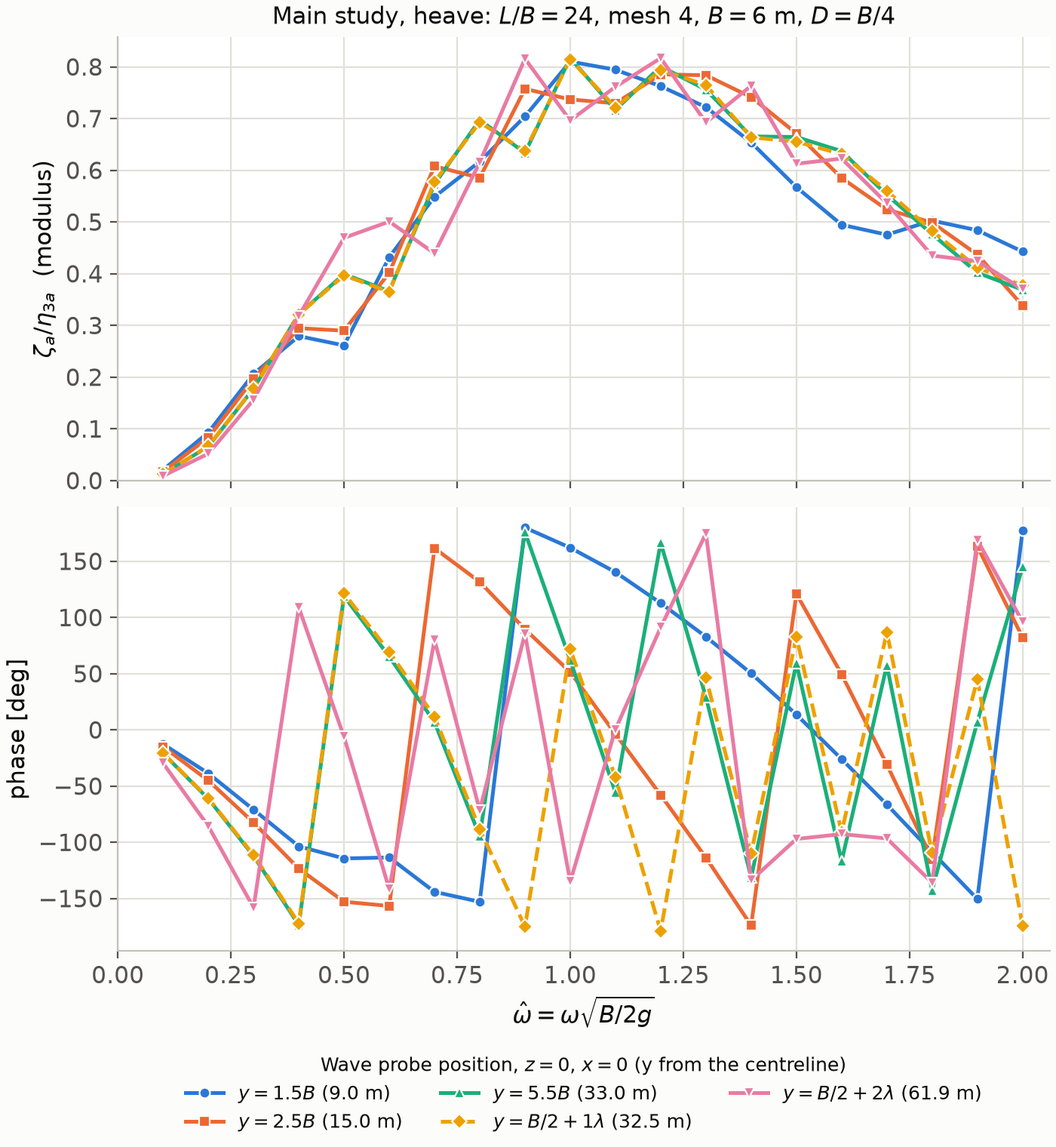
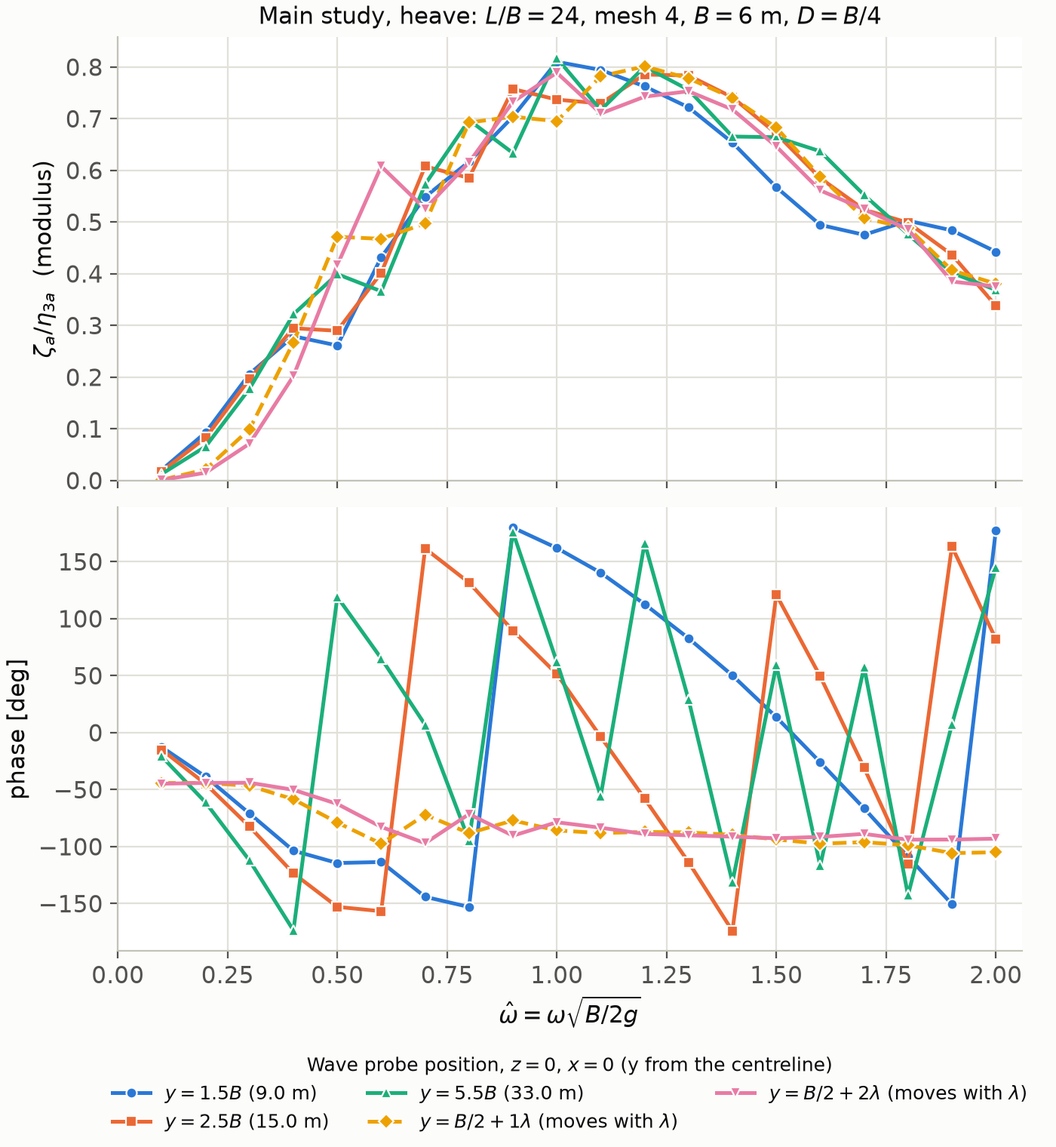
Update main study and animation with probes that follow the wavelength

diff --git a/assets/wavesim.js b/assets/wavesim.js
@@ -2,11 +2,12 @@
 /* Hovudstudien og bølgjeanimasjonen på Results-sida.
    Tala kjem frå main_study/plots/<rørsle>/main_study_<rørsle>_table.csv (same tal som er plotta).
    Radene er [omega_hat, lambda, lambda/dx, a, b, zeta (5 sondar), fase i grader (5 sondar)].
+   Sonde 1 til 3 står fast (y = 9, 15, 33 m). Sonde 4 og 5 følgjer bølgjelengda: y = B/2 + lambda og B/2 + 2 lambda (lambda frå kolonne 2).
    Konvensjon (WAMIT): rørsla er eta(t) = cos(wt), og bølgja i ein sonde er zeta_n(t) = |zeta_n| cos(wt + fase_n).
    Ei utgåande bølgje er cos(wt - k y + c), så fasen er fase_n = c - k y_n, med k = w^2/g på djupt vatn. */
 
-const WS_DATA = {"heave":[[0.1,1884.9556,1544.62,5.715353,0.088841,0.020668,0.017612,0.012773,0.012874,0.00916,-12.64,-14.924,-20.859,-20.687,-29.648],[0.2,471.2389,386.15,4.983019,0.513626,0.093058,0.082897,0.06589,0.066262,0.05205,-38.68,-44.995,-61.269,-60.797,-85.594],[0.3,209.4395,171.62,3.170812,0.876455,0.206325,0.196591,0.177892,0.178372,0.156388,-70.96,-82.431,-112.187,-111.314,-158.168],[0.4,117.8097,96.54,2.403484,0.89964,0.279332,0.294748,0.32185,0.321469,0.318313,-103.565,-123.434,-173.481,-172.02,108.874],[0.5,75.3982,61.78,1.97358,0.960845,0.261387,0.289856,0.399369,0.396708,0.469474,-114.355,-152.838,119.082,121.505,-6.167],[0.6,52.3599,42.91,1.723719,0.938068,0.432,0.401925,0.366199,0.365193,0.500859,-113.483,-156.64,65.178,69.435,-141.705],[0.7,38.4685,31.52,1.567684,0.874458,0.548952,0.608018,0.573342,0.578034,0.439492,-144.038,161.627,6.923,11.82,79.98],[0.8,29.4524,24.14,1.488714,0.78119,0.616875,0.585468,0.69742,0.692692,0.61552,-152.926,131.68,-94.618,-88.192,-71.43],[0.9,23.2711,19.07,1.466645,0.668966,0.704182,0.75759,0.633704,0.637499,0.815801,179.959,89.587,175.975,-175.062,85.462],[1.0,18.8496,15.45,1.484661,0.550758,0.810295,0.737081,0.817438,0.814644,0.696403,162.071,51.443,62.043,72.016,-134.98],[1.1,15.5781,12.77,1.527795,0.436666,0.794444,0.729666,0.716718,0.721323,0.761483,140.33,-3.63,-55.436,-42.265,0.412],[1.2,13.09,10.73,1.584975,0.334579,0.762658,0.785571,0.800853,0.793788,0.816967,112.788,-57.928,166.492,-178.792,91.177],[1.3,11.1536,9.14,1.647017,0.24856,0.722087,0.783814,0.756042,0.764921,0.692515,82.875,-113.607,29.147,46.62,174.699],[1.4,9.6171,7.88,1.707881,0.179742,0.653867,0.741564,0.665624,0.663885,0.763329,50.238,-173.92,-131.165,-109.875,-133.737],[1.5,8.3776,6.87,1.763954,0.127006,0.567472,0.671364,0.664381,0.655282,0.612697,13.64,121.103,59.323,82.825,-97.004],[1.6,7.3631,6.03,1.81374,0.088062,0.494697,0.585135,0.637122,0.631457,0.622722,-26.001,49.446,-116.781,-91.035,-92.688],[1.7,6.5223,5.34,1.856715,0.0602,0.475486,0.524188,0.552488,0.560318,0.536093,-66.417,-30.811,57.537,86.877,-96.554],[1.8,5.8178,4.77,1.893465,0.040767,0.502746,0.498964,0.476722,0.482774,0.435138,-108.73,-114.992,-142.514,-109.515,-135.942],[1.9,5.2215,4.28,1.924848,0.027543,0.484042,0.43697,0.402002,0.411939,0.424393,-150.424,163.341,7.211,45.002,168.867],[2.0,4.7124,3.86,1.951684,0.018698,0.442806,0.338362,0.368897,0.37711,0.370352,177.495,82.251,145.051,-174.266,96.154]],"sway":[[0.1,1884.9556,1544.62,0.674976,3e-06,0.001937,0.001146,0.000515,0.000524,0.000256,179.981,179.949,179.755,179.763,179.079],[0.2,471.2389,386.15,0.700065,0.000402,0.009036,0.005927,0.003466,0.003502,0.002375,178.99,177.547,171.104,171.335,156.694],[0.3,209.4395,171.62,0.74876,0.005366,0.026624,0.02028,0.015873,0.015933,0.013798,172.283,164.016,137.4,138.216,93.748],[0.4,117.8097,96.54,0.815727,0.026009,0.062211,0.052856,0.050979,0.050932,0.052135,156.588,136.299,80.393,81.991,-0.965],[0.5,75.3982,61.78,0.884948,0.082935,0.119338,0.104087,0.110493,0.109977,0.132103,138.483,104.816,9.944,12.625,-122.565],[0.6,52.3599,42.91,0.91213,0.195786,0.228907,0.20687,0.182067,0.182164,0.223194,117.027,74.266,-57.632,-53.502,93.564],[0.7,38.4685,31.52,0.850409,0.356709,0.359626,0.368135,0.373813,0.375627,0.285818,83.897,24.608,-135.461,-130.595,-56.081],[0.8,29.4524,24.14,0.702171,0.51647,0.516099,0.481529,0.552503,0.548269,0.520492,59.077,-17.136,114.142,120.666,138.199],[0.9,23.2711,19.07,0.5238,0.626739,0.644541,0.712044,0.614725,0.621137,0.800114,23.061,-71.915,18.693,27.576,-76.6],[1.0,18.8496,15.45,0.36714,0.678925,0.86118,0.831711,0.916907,0.909319,0.717641,-5.037,-115.068,-107.444,-97.552,57.66],[1.1,15.5781,12.77,0.248735,0.687405,0.951475,0.88194,0.884343,0.899358,1.000173,-31.007,-175.614,137.077,150.188,-168.408],[1.2,13.09,10.73,0.166548,0.670743,0.997385,1.121256,1.099726,1.077513,1.140441,-63.534,124.89,-12.676,2.248,-88.305],[1.3,11.1536,9.14,0.111816,0.640321,1.085443,1.304802,1.300556,1.316503,1.092064,-98.44,69.31,-146.662,-130.059,3.381],[1.4,9.6171,7.88,0.076325,0.603227,1.177337,1.389697,1.127635,1.150603,1.399528,-132.713,9.146,55.637,77.601,43.512],[1.5,8.3776,6.87,0.054368,0.563372,1.235978,1.457674,1.293372,1.252382,1.289662,-166.176,-57.203,-123.12,-98.657,90.111],[1.6,7.3631,6.03,0.041729,0.523771,1.305172,1.564378,1.581817,1.539959,1.452717,162.055,-129.473,60.717,86.15,84.366],[1.7,6.5223,5.34,0.035074,0.484226,1.517868,1.683935,1.704787,1.701727,1.650462,127.07,151.642,-122.906,-94.764,86.413],[1.8,5.8178,4.77,0.03315,0.446579,1.74466,1.727596,1.731309,1.761246,1.391501,80.99,66.051,39.646,71.564,47.361],[1.9,5.2215,4.28,0.034449,0.410359,1.614969,1.602933,1.754013,1.802654,1.744103,32.824,-21.174,-171.561,-135.488,-14.843],[2.0,4.7124,3.86,0.037874,0.376192,1.655135,1.569483,1.804328,1.857747,1.8506,-2.234,-102.758,-35.719,4.441,-84.896]]};
-const WS_Y = [9, 15, 33, 32.4524, 61.9049];
+const WS_DATA = {"heave":[[0.1,1884.9556,1544.62,5.715353,0.088841,0.020668,0.017612,0.012773,0.001477,0.001044,-12.64,-14.924,-20.859,-44.136,-44.758],[0.2,471.2389,386.15,4.983019,0.513626,0.093058,0.082897,0.06589,0.021468,0.015218,-38.68,-44.995,-61.269,-44.089,-44.06],[0.3,209.4395,171.62,3.170812,0.876455,0.206325,0.196591,0.177892,0.099504,0.071512,-70.96,-82.431,-112.187,-46.601,-43.908],[0.4,117.8097,96.54,2.403484,0.89964,0.279332,0.294748,0.32185,0.267471,0.202216,-103.565,-123.434,-173.481,-58.438,-50.13],[0.5,75.3982,61.78,1.97358,0.960845,0.261387,0.289856,0.399369,0.471703,0.416901,-114.355,-152.838,119.082,-78.836,-62.522],[0.6,52.3599,42.91,1.723719,0.938068,0.432,0.401925,0.366199,0.46768,0.607932,-113.483,-156.64,65.178,-97.481,-82.672],[0.7,38.4685,31.52,1.567684,0.874458,0.548952,0.608018,0.573342,0.497401,0.525695,-144.038,161.627,6.923,-71.959,-96.983],[0.8,29.4524,24.14,1.488714,0.78119,0.616875,0.585468,0.69742,0.692692,0.61552,-152.926,131.68,-94.618,-88.192,-71.43],[0.9,23.2711,19.07,1.466645,0.668966,0.704182,0.75759,0.633704,0.704061,0.732817,179.959,89.587,175.975,-77.019,-90.356],[1.0,18.8496,15.45,1.484661,0.550758,0.810295,0.737081,0.817438,0.695203,0.789149,162.071,51.443,62.043,-85.737,-78.578],[1.1,15.5781,12.77,1.527795,0.436666,0.794444,0.729666,0.716718,0.782369,0.710257,140.33,-3.63,-55.436,-88.075,-83.382],[1.2,13.09,10.73,1.584975,0.334579,0.762658,0.785571,0.800853,0.801364,0.742775,112.788,-57.928,166.492,-87.075,-88.862],[1.3,11.1536,9.14,1.647017,0.24856,0.722087,0.783814,0.756042,0.778233,0.75328,82.875,-113.607,29.147,-87.493,-90.063],[1.4,9.6171,7.88,1.707881,0.179742,0.653867,0.741564,0.665624,0.740474,0.718059,50.238,-173.92,-131.165,-89.675,-91.211],[1.5,8.3776,6.87,1.763954,0.127006,0.567472,0.671364,0.664381,0.682874,0.646378,13.64,121.103,59.323,-93.672,-92.652],[1.6,7.3631,6.03,1.81374,0.088062,0.494697,0.585135,0.637122,0.588123,0.56142,-26.001,49.446,-116.781,-97.369,-91.418],[1.7,6.5223,5.34,1.856715,0.0602,0.475486,0.524188,0.552488,0.507589,0.524898,-66.417,-30.811,57.537,-96.023,-88.783],[1.8,5.8178,4.77,1.893465,0.040767,0.502746,0.498964,0.476722,0.488874,0.486102,-108.73,-114.992,-142.514,-98.77,-93.865],[1.9,5.2215,4.28,1.924848,0.027543,0.484042,0.43697,0.402002,0.406765,0.385114,-150.424,163.341,7.211,-105.667,-93.763],[2.0,4.7124,3.86,1.951684,0.018698,0.442806,0.338362,0.368897,0.380918,0.37569,177.495,82.251,145.051,-104.92,-92.993]],"sway":[[0.1,1884.9556,1544.62,0.674976,3e-06,0.001937,0.001146,0.000515,1.3e-05,9e-06,179.981,179.949,179.755,-139.093,-137.327],[0.2,471.2389,386.15,0.700065,0.000402,0.009036,0.005927,0.003466,0.000816,0.000578,178.99,177.547,171.104,-142.118,-139.748],[0.3,209.4395,171.62,0.74876,0.005366,0.026624,0.02028,0.015873,0.009091,0.006578,172.283,164.016,137.4,-150.639,-145.832],[0.4,117.8097,96.54,0.815727,0.026009,0.062211,0.052856,0.050979,0.046758,0.036153,156.588,136.299,80.393,-168.33,-158.266],[0.5,75.3982,61.78,0.884948,0.082935,0.119338,0.104087,0.110493,0.136062,0.12528,138.483,104.816,9.944,163.932,-179.812],[0.6,52.3599,42.91,0.91213,0.195786,0.228907,0.20687,0.182067,0.210161,0.276177,117.027,74.266,-57.632,138.728,149.469],[0.7,38.4685,31.52,0.850409,0.356709,0.359626,0.368135,0.373813,0.337791,0.328196,83.897,24.608,-135.461,147.277,125.236],[0.8,29.4524,24.14,0.702171,0.51647,0.516099,0.481529,0.552503,0.548269,0.520492,59.077,-17.136,114.142,120.666,138.199],[0.9,23.2711,19.07,0.5238,0.626739,0.644541,0.712044,0.614725,0.704864,0.685536,23.061,-71.915,18.693,123.468,107.91],[1.0,18.8496,15.45,0.36714,0.678925,0.86118,0.831711,0.916907,0.740911,0.91788,-5.037,-115.068,-107.444,108.977,114.881],[1.1,15.5781,12.77,0.248735,0.687405,0.951475,0.88194,0.884343,0.957641,0.856847,-31.007,-175.614,137.077,98.215,108.947],[1.2,13.09,10.73,0.166548,0.670743,0.997385,1.121256,1.099726,1.156552,0.961886,-63.534,124.89,-12.676,96.147,95.599],[1.3,11.1536,9.14,0.111816,0.640321,1.085443,1.304802,1.300556,1.292818,1.127889,-98.44,69.31,-146.662,94.663,90.09],[1.4,9.6171,7.88,0.076325,0.603227,1.177337,1.389697,1.127635,1.388631,1.222841,-132.713,9.146,55.637,91.657,88.007],[1.5,8.3776,6.87,0.054368,0.563372,1.235978,1.457674,1.293372,1.408212,1.231614,-166.176,-57.203,-123.12,87.719,88.738],[1.6,7.3631,6.03,0.041729,0.523771,1.305172,1.564378,1.581817,1.313277,1.281445,162.055,-129.473,60.717,88.748,96.1],[1.7,6.5223,5.34,0.035074,0.484226,1.517868,1.683935,1.704787,1.446925,1.600381,127.07,151.642,-122.906,97.937,97.995],[1.8,5.8178,4.77,0.03315,0.446579,1.74466,1.727596,1.731309,1.74254,1.689327,80.99,66.051,39.646,91.328,87.221],[1.9,5.2215,4.28,0.034449,0.410359,1.614969,1.602933,1.754013,1.514018,1.499707,32.824,-21.174,-171.561,89.464,94.135],[2.0,4.7124,3.86,0.037874,0.376192,1.655135,1.569483,1.804328,1.851904,1.878369,-2.234,-102.758,-35.719,93.369,90.408]]};
+const WS_Y = [9, 15, 33];                                     // dei faste sondane; sonde 4 og 5 følgjer lambda, sjå wsYs()
 const WS_COL = ["#2a78d6", "#eb6834", "#1baf7a", "#eda100", "#e87ba4"];
 const WS_NAME = ["1.5B", "2.5B", "5.5B", "B/2+λ", "B/2+2λ"];
 const WS_B = 6, WS_D = 1.5, WS_G = 9.80665, WS_VIEW = 70;      // halvbreidde av visninga i meter
@@ -15,46 +16,46 @@ const WS_PERIOD = 6;                                           // sekund på skj
 SITE.add({
 no:{
  "ms.h":"Main study",
- "ms.p":"L/B = 24 og mesh 4, ω̂ = 0.1 til 2.0 i steg på 0.1. Same dimensjonslause storleikar som i sensitivitetsstudiane. Bølgjehøgd og fase er målt i dei fem sondane (z = 0, x = 0).",
+ "ms.p":"L/B = 24 og mesh 4, ω̂ = 0.1 til 2.0 i steg på 0.1. Same dimensjonslause storleikar som i sensitivitetsstudiane. Bølgjehøgd og fase er målt i fem sondar (z = 0, x = 0): tre faste (y = 1.5B, 2.5B og 5.5B) og to som følgjer bølgjelengda (y = B/2 + λ og B/2 + 2λ, rekna på nytt for kvar frekvens).",
  "ms.coef":"Added mass og demping",
  "ms.waves":"Bølgjehøgd og fase",
- "ms.warn":"Meshet er valt ved ω̂ = 0.8 (λ/Δx = 24) og er det same for alle frekvensar, så λ/Δx blir mindre ved høge frekvensar (3.9 ved ω̂ = 2). Dei høgaste frekvensane er derfor mindre pålitelege. Fasen er innpakka til ±180°, og dei fjerne sondane går gjennom fleire heile omdreiingar mellom to punkt.",
+ "ms.warn":"Meshet er valt ved ω̂ = 0.8 (λ/Δx = 24) og er det same for alle frekvensar, så λ/Δx blir mindre ved høge frekvensar (3.9 ved ω̂ = 2). Dei høgaste frekvensane er derfor mindre pålitelege. Fasen er innpakka til ±180°. For dei faste sondene går fasen gjennom fleire heile omdreiingar mellom to punkt, medan sondene som følgjer bølgjelengda har ein jamn fase.",
  "wv.h":"Animasjon: bølgjene frå boksen",
- "wv.p":"Boksen svingar og sender bølgjer ut til begge sider. Ei utgåande bølgje har fasen −k·y, med k = ω²/g. Dess lenger bort ein er, og dess høgare frekvens, dess raskare blir fasen skyvd bakover. Glidaren går i steg på 0.02. I målepunkta (0.1, 0.2, ...) er prikkane WAMIT-data, og mellom dei brukar eg teorien. Den blå linja er bølgjeteorien (djupt vatn).",
+ "wv.p":"Boksen svingar og sender bølgjer ut til begge sider. Ei utgåande bølgje har fasen −k·y, med k = ω²/g. Tre sondar står fast (1.5B, 2.5B og 5.5B). Dei to siste følgjer bølgjelengda (B/2 + λ og B/2 + 2λ), så dei flyttar seg når du endrar frekvensen, og ved låg frekvens ligg dei utanfor biletet. Glidaren går i steg på 0.02. I målepunkta (0.1, 0.2, ...) er prikkane WAMIT-data, og mellom dei brukar eg teorien. Den blå linja er bølgjeteorien (djupt vatn).",
  "wv.omega":"Frekvens ω̂",
  "wv.play":"Spel", "wv.pause":"Stopp",
  "wv.field":"Vassflata sett frå sida. Vertikal skala er sterkt forstørra (rørsle 1 m).",
- "wv.lag":"Forsinking bakom boksen: antal heile periodar (k·y/2π) kvar sonde ligg etter. Ved låg frekvens ligg alle saman med boksen (0). Dess høgare frekvens, dess lenger bak havnar dei, og dess lenger bort sonden står, dess raskare går det.",
+ "wv.lag":"Forsinking bakom boksen: antal heile periodar (k·y/2π) kvar sonde ligg etter. For dei faste sondene (blå, oransje og grøn) aukar forsinkinga med frekvensen, mest for den som står lengst unna. Dei to sondene som følgjer bølgjelengda ligg heile tida om lag 1 og 2 periodar bak (pluss ein liten del frå boksen sin kant som aukar med frekvensen).",
  "wv.lagax":"periodar bak boksen",
- "wv.ts":"Tidsserie: den svarte linja er svingninga til boksen (tid går mot høgre, nå er den loddrette streken). Kvar sonde ser same signal, men så langt bak i tid som forsinkinga k·y/2π. Ved låg frekvens ligg alle prikkane saman med boksen. Auk frekvensen med glidaren og sjå dei vandre bakover, mest for dei fjerne sondane. Forenkla: berre utbreiinga, utan fasen frå boksen sjølv.",
+ "wv.ts":"Tidsserie: den svarte linja er svingninga til boksen (tid går mot høgre, nå er den loddrette streken). Kvar sonde ser same signal, men så langt bak i tid som forsinkinga k·y/2π. Auk frekvensen med glidaren: dei faste sondene vandrar bakover, mest den fjerne, medan dei to som følgjer bølgjelengda held seg nær 1 og 2 periodar bak. Forenkla: berre utbreiinga, utan fasen frå boksen sjølv.",
  "wv.info":"λ = {lam} m, k = {k} rad/m, λ/Δx = {ldx}",
  "wv.interp":"Mellom målepunkta: teori (amplitude interpolert).",
  "wv.meas":"Målepunkt frå WAMIT.",
  "wv.lowmesh":"Meshet er grovt her (λ/Δx under 10), så dataa er mindre pålitelege.",
  "wv.th":["Sonde","y [m]","|ζ|/η","fase [°]","forsinking k·y [periodar]","teori fase [°] (festa til 1.5B)"],
- "wv.note":"Forsinking er k·y/2π: kor mange heile bølgjelengder sonden står frå kjelda. Den forsinkinga er forklaringa på at fasen, innpakka til ±180°, ser ut som ein sagtann når ω̂ aukar.",
+ "wv.note":"Forsinking er k·y/2π: kor mange heile bølgjelengder sonden står frå kjelda. Den forsinkinga er forklaringa på at fasen, innpakka til ±180°, ser ut som ein sagtann for dei faste sondene når ω̂ aukar. For sondene som følgjer bølgjelengda er k·y = k·B/2 + 2πn, så dei n heile periodane forsvinn i fasen, og fasen blir jamn.",
  "wv.y":"y [m]", "wv.t":"tid [periodar], nå = 0"
 },
 en:{
  "ms.h":"Main study",
- "ms.p":"L/B = 24 and mesh 4, ω̂ = 0.1 to 2.0 in steps of 0.1. The same non-dimensional quantities as in the sensitivity studies. Wave elevation and phase are measured in the five probes (z = 0, x = 0).",
+ "ms.p":"L/B = 24 and mesh 4, ω̂ = 0.1 to 2.0 in steps of 0.1. The same non-dimensional quantities as in the sensitivity studies. Wave elevation and phase are measured in five probes (z = 0, x = 0): three fixed (y = 1.5B, 2.5B and 5.5B) and two that follow the wavelength (y = B/2 + λ and B/2 + 2λ, placed again for every frequency).",
  "ms.coef":"Added mass and damping",
  "ms.waves":"Wave elevation and phase",
- "ms.warn":"The mesh was chosen at ω̂ = 0.8 (λ/Δx = 24) and is the same for all frequencies, so λ/Δx gets smaller at high frequencies (3.9 at ω̂ = 2). The highest frequencies are therefore less reliable. The phase is wrapped to ±180°, and the far probes pass through several full turns between two points.",
+ "ms.warn":"The mesh was chosen at ω̂ = 0.8 (λ/Δx = 24) and is the same for all frequencies, so λ/Δx gets smaller at high frequencies (3.9 at ω̂ = 2). The highest frequencies are therefore less reliable. The phase is wrapped to ±180°. For the fixed probes the phase passes through several full turns between two points, while the probes that follow the wavelength have a smooth phase.",
  "wv.h":"Animation: the waves from the box",
- "wv.p":"The box oscillates and sends waves out to both sides. An outgoing wave has the phase −k·y, with k = ω²/g. The further away you are, and the higher the frequency, the faster the phase is pushed backwards. The slider moves in steps of 0.02. At the data points (0.1, 0.2, ...) the dots are WAMIT data, and in between I use theory. The blue line is wave theory (deep water).",
+ "wv.p":"The box oscillates and sends waves out to both sides. An outgoing wave has the phase −k·y, with k = ω²/g. Three probes are fixed (1.5B, 2.5B and 5.5B). The last two follow the wavelength (B/2 + λ and B/2 + 2λ), so they move when you change the frequency, and at low frequency they are outside the picture. The slider moves in steps of 0.02. At the data points (0.1, 0.2, ...) the dots are WAMIT data, and in between I use theory. The blue line is wave theory (deep water).",
  "wv.omega":"Frequency ω̂",
  "wv.play":"Play", "wv.pause":"Pause",
  "wv.field":"The free surface seen from the side. The vertical scale is strongly exaggerated (motion 1 m).",
- "wv.lag":"Delay behind the box: the number of whole periods (k·y/2π) each probe lags. At low frequency they all sit with the box (0). The higher the frequency, the further back they end up, and the further away a probe is, the faster it goes.",
+ "wv.lag":"Delay behind the box: the number of whole periods (k·y/2π) each probe lags. For the fixed probes (blue, orange and green) the delay grows with frequency, most for the one furthest away. The two probes that follow the wavelength stay at about 1 and 2 periods behind (plus a small part from the edge of the box that grows with frequency).",
  "wv.lagax":"periods behind the box",
- "wv.ts":"Time series: the black line is the oscillation of the box (time runs to the right, now is the vertical line). Every probe sees the same signal, but as far back in time as the delay k·y/2π. At low frequency all dots sit with the box. Increase the frequency with the slider and watch them move backwards, most for the far probes. Simplified: propagation only, without the phase from the box itself.",
+ "wv.ts":"Time series: the black line is the oscillation of the box (time runs to the right, now is the vertical line). Every probe sees the same signal, but as far back in time as the delay k·y/2π. Increase the frequency with the slider: the fixed probes move backwards, most for the far one, while the two that follow the wavelength stay near 1 and 2 periods behind. Simplified: propagation only, without the phase from the box itself.",
  "wv.info":"λ = {lam} m, k = {k} rad/m, λ/Δx = {ldx}",
  "wv.interp":"Between data points: theory (amplitude interpolated).",
  "wv.meas":"WAMIT data point.",
  "wv.lowmesh":"The mesh is coarse here (λ/Δx below 10), so the data are less reliable.",
  "wv.th":["Probe","y [m]","|ζ|/η","phase [°]","delay k·y [periods]","theory phase [°] (fitted to 1.5B)"],
- "wv.note":"The delay is k·y/2π: how many whole wavelengths the probe is from the source. That delay is why the phase, wrapped to ±180°, looks like a saw tooth as ω̂ increases.",
+ "wv.note":"The delay is k·y/2π: how many whole wavelengths the probe is from the source. That delay is why the phase, wrapped to ±180°, looks like a saw tooth for the fixed probes as ω̂ increases. For the probes that follow the wavelength, k·y = k·B/2 + 2πn, so the n whole periods disappear from the phase and it stays smooth.",
  "wv.y":"y [m]", "wv.t":"time [periods], now = 0"
 }
 });
@@ -62,6 +63,7 @@ en:{
 const WSIM = { dof: "heave", oh: 0.8, playing: true, theta: 0, last: 0, cv: null, ct: null };
 
 // ---------- hjelp ----------
+function wsYs(r){ return [WS_Y[0], WS_Y[1], WS_Y[2], WS_B / 2 + r[1], WS_B / 2 + 2 * r[1]]; }   // sondeposisjonar (m) ved denne frekvensen
 // Rad for valfri omega_hat: nøyaktig målt rad i målepunkta (steg 0.1), elles teori mellom punkta
 // (amplitude lineært, fasekonstanten c = fase_1 + k*y_1 interpolert på einingssirkelen, fase_n = c - k*y_n).
 function wsRowAt(oh){
@@ -73,7 +75,7 @@ function wsRowAt(oh){
   const ca = cc(A), cb = cc(B2), cx = (1 - t) * Math.cos(ca) + t * Math.cos(cb), cy = (1 - t) * Math.sin(ca) + t * Math.sin(cb), c = Math.atan2(cy, cx);
   const lam = 2 * Math.PI * WS_G / (om * om), dx = A[1] / A[2];
   const amp = A.slice(5, 10).map((v, n) => (1 - t) * v + t * B2[5 + n]);
-  const ph = WS_Y.map(y => wsWrap((c - k * y) * 180 / Math.PI));
+  const ph = [WS_Y[0], WS_Y[1], WS_Y[2], WS_B / 2 + lam, WS_B / 2 + 2 * lam].map(y => wsWrap((c - k * y) * 180 / Math.PI));
   return [oh, lam, lam / dx, 0, 0].concat(amp, ph, [true]);
 }
 function wsRow(){ return wsRowAt(WSIM.oh); }
@@ -82,7 +84,7 @@ function wsPh(r){ return r.slice(10, 15); }
 function wsWrap(d){ d = ((d + 180) % 360 + 360) % 360 - 180; return d; }
 function wsK(r){ const om = r[0] / Math.sqrt(WS_B / (2 * WS_G)); return om * om / WS_G; }
 function wsAmpAt(r, y){      // |zeta| mellom sondane, rett linje i y
-  const pts = WS_Y.map((v, i) => [v, wsAmp(r)[i]]).sort((a, b) => a[0] - b[0]);
+  const pts = wsYs(r).map((v, i) => [v, wsAmp(r)[i]]).sort((a, b) => a[0] - b[0]);
   if (y <= pts[0][0]) return pts[0][1];
   for (let i = 1; i < pts.length; i++) if (y <= pts[i][0]) { const [y0, a0] = pts[i - 1], [y1, a1] = pts[i]; return a0 + (a1 - a0) * (y - y0) / ((y1 - y0) || 1); }
   return pts[pts.length - 1][1];
@@ -99,7 +101,7 @@ function wsRange(r){ const a = Math.max(...wsAmp(r)); return Math.max(1.6, 1.3 *
 
 // ---------- teikning: vassflata ----------
 function wsDrawField(){
-  const { x, W, H } = wsSetup(WSIM.cv, 300), r = wsRow(), k = wsK(r), ph = wsPh(r), am = wsAmp(r);
+  const { x, W, H } = wsSetup(WSIM.cv, 300), r = wsRow(), k = wsK(r), ph = wsPh(r), am = wsAmp(r), ys = wsYs(r);
   const sw = WSIM.dof === "sway", th = WSIM.theta;
   const zr = wsRange(r), zlo = -2.2, padT = 14, padB = 26, ppm = (H - padT - padB) / (zr - zlo);
   const X = y => W / 2 + y / WS_VIEW * (W / 2 - 14), Z = z => padT + (zr - z) * ppm;
@@ -111,7 +113,7 @@ function wsDrawField(){
   x.textAlign = "left"; x.fillText("z [m]", 4, 12);
   for (let z = Math.ceil(zlo); z <= Math.floor(zr); z++){ x.beginPath(); x.moveTo(X(-WS_VIEW), Z(z)); x.lineTo(X(WS_VIEW), Z(z)); x.strokeStyle = z === 0 ? "#c3c2b7" : "#eeeee8"; x.stroke(); if (z !== 0){ x.fillStyle = "#8a8980"; x.fillText(String(z), 4, Z(z) - 2); } }
   // bølgje (teori), fase festa til sonde 1: c = fase_1 + k*y_1
-  const c0 = ph[0] * Math.PI / 180 + k * WS_Y[0];
+  const c0 = ph[0] * Math.PI / 180 + k * ys[0];
   const zeta = y => { const ay = Math.abs(y), s = (sw && y < 0) ? -1 : 1; return s * wsAmpAt(r, ay) * Math.cos(th - k * ay + c0); };
   x.beginPath(); let first = true;
   const pts = [];
@@ -130,12 +132,13 @@ function wsDrawField(){
   x.fillRect(x0, zt, x1 - x0, zb - zt); x.strokeRect(x0, zt, x1 - x0, zb - zt);
   // sondar med målt verdi
   for (let n = 0; n < 5; n++){
+    if (ys[n] > WS_VIEW) continue;                         // utanfor biletet (λ-sondane ved låg frekvens)
     const val = am[n] * Math.cos(th + ph[n] * Math.PI / 180);
-    x.setLineDash([2, 3]); x.strokeStyle = WS_COL[n]; x.lineWidth = 1; x.beginPath(); x.moveTo(X(WS_Y[n]), padT); x.lineTo(X(WS_Y[n]), H - padB); x.stroke(); x.setLineDash([]);
-    x.beginPath(); x.arc(X(WS_Y[n]), Z(val), 6, 0, 6.283); x.fillStyle = WS_COL[n]; x.fill(); x.lineWidth = 2; x.strokeStyle = "#fff"; x.stroke();
+    x.setLineDash([2, 3]); x.strokeStyle = WS_COL[n]; x.lineWidth = 1; x.beginPath(); x.moveTo(X(ys[n]), padT); x.lineTo(X(ys[n]), H - padB); x.stroke(); x.setLineDash([]);
+    x.beginPath(); x.arc(X(ys[n]), Z(val), 6, 0, 6.283); x.fillStyle = WS_COL[n]; x.fill(); x.lineWidth = 2; x.strokeStyle = "#fff"; x.stroke();
   }
   x.font = "bold 11px system-ui,sans-serif"; x.textAlign = "center";
-  [0, 1, 2, 4].forEach(n => { x.fillStyle = WS_COL[n]; x.fillText(WS_NAME[n], X(WS_Y[n]), padT + 10); });
+  [0, 1, 2, 3, 4].forEach(n => { if (ys[n] > WS_VIEW) return; x.fillStyle = WS_COL[n]; x.fillText(WS_NAME[n], X(ys[n]), padT + 10 + (n === 3 ? 12 : 0)); });
 }
 
 // ---------- teikning: tidsserie ----------
@@ -143,7 +146,7 @@ function wsDrawField(){
 // Kvar sonde ser same signal, men forsinka med k*y/2pi periodar (ikkje innpakka). Prikken til sonden
 // ligg derfor på same kurve, så langt bak i tid (t = -forsinking). Låg frekvens: alle prikkane ved t = 0.
 function wsDrawTs(){
-  const { x, W, H } = wsSetup(WSIM.ct, 210), r = wsRow(), k = wsK(r), th = WSIM.theta;
+  const { x, W, H } = wsSetup(WSIM.ct, 210), r = wsRow(), k = wsK(r), th = WSIM.theta, ys = wsYs(r);
   const MAXP = 14, padL = 40, padR = 12, padT = 12, padB = 26, T0 = -MAXP - 0.3, T1 = 0.3;
   const X = t => padL + (t - T0) / (T1 - T0) * (W - padL - padR), Z = z => padT + (1.15 - z) / 2.3 * (H - padT - padB);
   x.fillStyle = "#fff"; x.fillRect(0, 0, W, H);
@@ -161,7 +164,7 @@ function wsDrawTs(){
   // toppen av boksen sin kurve nærast "no" (tb), og kvar sonde har same kurve forskyvd bakover med forsinkinga
   const tb = -(((th / (2 * Math.PI)) % 1) + 1) % 1;
   for (let n = 0; n < 5; n++){
-    const lag = Math.min(k * WS_Y[n] / (2 * Math.PI), MAXP), tp = tb - lag, te = Math.min(tp + 2.5, T1);
+    const lag = Math.min(k * ys[n] / (2 * Math.PI), MAXP), tp = tb - lag, te = Math.min(tp + 2.5, T1);
     x.beginPath(); const M = 200;
     for (let i = 0; i <= M; i++){ const t = tp + (te - tp) * i / M, v = Math.cos(2 * Math.PI * (t - tp)); i ? x.lineTo(X(t), Z(v)) : x.moveTo(X(t), Z(v)); }
     x.strokeStyle = WS_COL[n]; x.lineWidth = 1.6; x.globalAlpha = 0.85; x.stroke(); x.globalAlpha = 1;
@@ -175,14 +178,14 @@ function wsDrawTs(){
 // Kvar sonde får ei eiga rad. Prikken står på forsinkinga k*y/2pi i heile periodar (ikkje innpakka),
 // så han startar ved 0 (i fase med boksen) og vandrar mot høgre når frekvensen aukar.
 function wsDrawLag(){
-  const { x, W, H } = wsSetup(WSIM.cl, 170), r = wsRow(), k = wsK(r), MAXP = 14, padL = 78, padR = 14, padT = 12, padB = 24;
+  const { x, W, H } = wsSetup(WSIM.cl, 170), r = wsRow(), k = wsK(r), ys = wsYs(r), MAXP = 14, padL = 78, padR = 14, padT = 12, padB = 24;
   const X = v => padL + v / MAXP * (W - padL - padR), rowH = (H - padT - padB) / 5;
   x.fillStyle = "#fff"; x.fillRect(0, 0, W, H);
   x.font = "11px system-ui,sans-serif"; x.textAlign = "center";
   for (let v = 0; v <= MAXP; v++){ x.strokeStyle = v === 0 ? "#111" : "#e1e0d9"; x.lineWidth = v === 0 ? 1.6 : 1; x.beginPath(); x.moveTo(X(v), padT); x.lineTo(X(v), H - padB); x.stroke(); x.fillStyle = "#52514e"; x.fillText(String(v), X(v), H - 9); }
   x.textAlign = "right"; x.fillStyle = "#52514e"; x.fillText(SITE.t("wv.lagax"), W - 4, 10);
   for (let n = 0; n < 5; n++){
-    const yy = padT + rowH * (n + 0.5), lag = k * WS_Y[n] / (2 * Math.PI);
+    const yy = padT + rowH * (n + 0.5), lag = k * ys[n] / (2 * Math.PI);
     x.fillStyle = WS_COL[n]; x.textAlign = "right"; x.font = "bold 11px system-ui,sans-serif"; x.fillText(WS_NAME[n], padL - 8, yy + 4);
     x.strokeStyle = WS_COL[n]; x.globalAlpha = 0.35; x.lineWidth = 6; x.lineCap = "round"; x.beginPath(); x.moveTo(X(0), yy); x.lineTo(X(Math.min(lag, MAXP)), yy); x.stroke(); x.globalAlpha = 1; x.lineCap = "butt";
     x.beginPath(); x.arc(X(Math.min(lag, MAXP)), yy, 7, 0, 6.283); x.fillStyle = WS_COL[n]; x.fill(); x.strokeStyle = "#fff"; x.lineWidth = 2; x.stroke();
@@ -193,15 +196,15 @@ function wsDrawLag(){
 
 // ---------- tekst og tabell ----------
 function wsInfo(){
-  const r = wsRow(), k = wsK(r), ph = wsPh(r), am = wsAmp(r), T = SITE.t("wv.th");
+  const r = wsRow(), k = wsK(r), ph = wsPh(r), am = wsAmp(r), ys = wsYs(r), T = SITE.t("wv.th");
   document.getElementById("wvinfo").innerHTML = SITE.t("wv.info", { lam: r[1].toFixed(1), k: k.toFixed(4), ldx: r[2].toFixed(1) }) +
     (r[15] ? ' <i>' + SITE.t("wv.interp") + '</i>' : ' <i>' + SITE.t("wv.meas") + '</i>') +
     (r[2] < 10 ? ' <b class="warn">' + SITE.t("wv.lowmesh") + '</b>' : "");
-  const c0 = ph[0] + k * WS_Y[0] * 180 / Math.PI;
+  const c0 = ph[0] + k * ys[0] * 180 / Math.PI;
   let h = '<table class="rt"><thead><tr>' + T.map(t => "<th>" + t + "</th>").join("") + "</tr></thead><tbody>";
   for (let n = 0; n < 5; n++){
-    const ky = k * WS_Y[n] / (2 * Math.PI), th = wsWrap(c0 - k * WS_Y[n] * 180 / Math.PI);
-    h += '<tr><td><span class="dot" style="background:' + WS_COL[n] + '"></span>' + WS_NAME[n] + "</td><td>" + WS_Y[n].toFixed(1) + "</td><td>" + am[n].toFixed(3) + "</td><td>" + ph[n].toFixed(1) + "</td><td>" + ky.toFixed(2) + "</td><td>" + th.toFixed(1) + "</td></tr>";
+    const ky = k * ys[n] / (2 * Math.PI), th = wsWrap(c0 - k * ys[n] * 180 / Math.PI);
+    h += '<tr><td><span class="dot" style="background:' + WS_COL[n] + '"></span>' + WS_NAME[n] + "</td><td>" + ys[n].toFixed(1) + "</td><td>" + am[n].toFixed(3) + "</td><td>" + ph[n].toFixed(1) + "</td><td>" + ky.toFixed(2) + "</td><td>" + th.toFixed(1) + "</td></tr>";
   }
   document.getElementById("wvtab").innerHTML = h + "</tbody></table>";
 }
@@ -217,8 +220,8 @@ function wsControls(){
 
 function wsImages(){
   const d = WSIM.dof;
-  document.getElementById("msimg1").src = "results/main_study/main_study_" + d + "_coefficients.png?v=10";
-  document.getElementById("msimg2").src = "results/main_study/main_study_" + d + "_waves.png?v=10";
+  document.getElementById("msimg1").src = "results/main_study/main_study_" + d + "_coefficients.png?v=11";
+  document.getElementById("msimg2").src = "results/main_study/main_study_" + d + "_waves.png?v=11";
   document.getElementById("msdl").href = "results/main_study/main_study_" + d + "_table.csv";
 }
 

diff --git a/results.html b/results.html
@@ -112,6 +112,6 @@
 <footer id="site-footer"></footer>
 <script src="assets/pyplot.js?v=8"></script>
 <script src="assets/results.js?v=10"></script>
-<script src="assets/wavesim.js?v=12"></script>
+<script src="assets/wavesim.js?v=13"></script>
 </body>
 </html>
